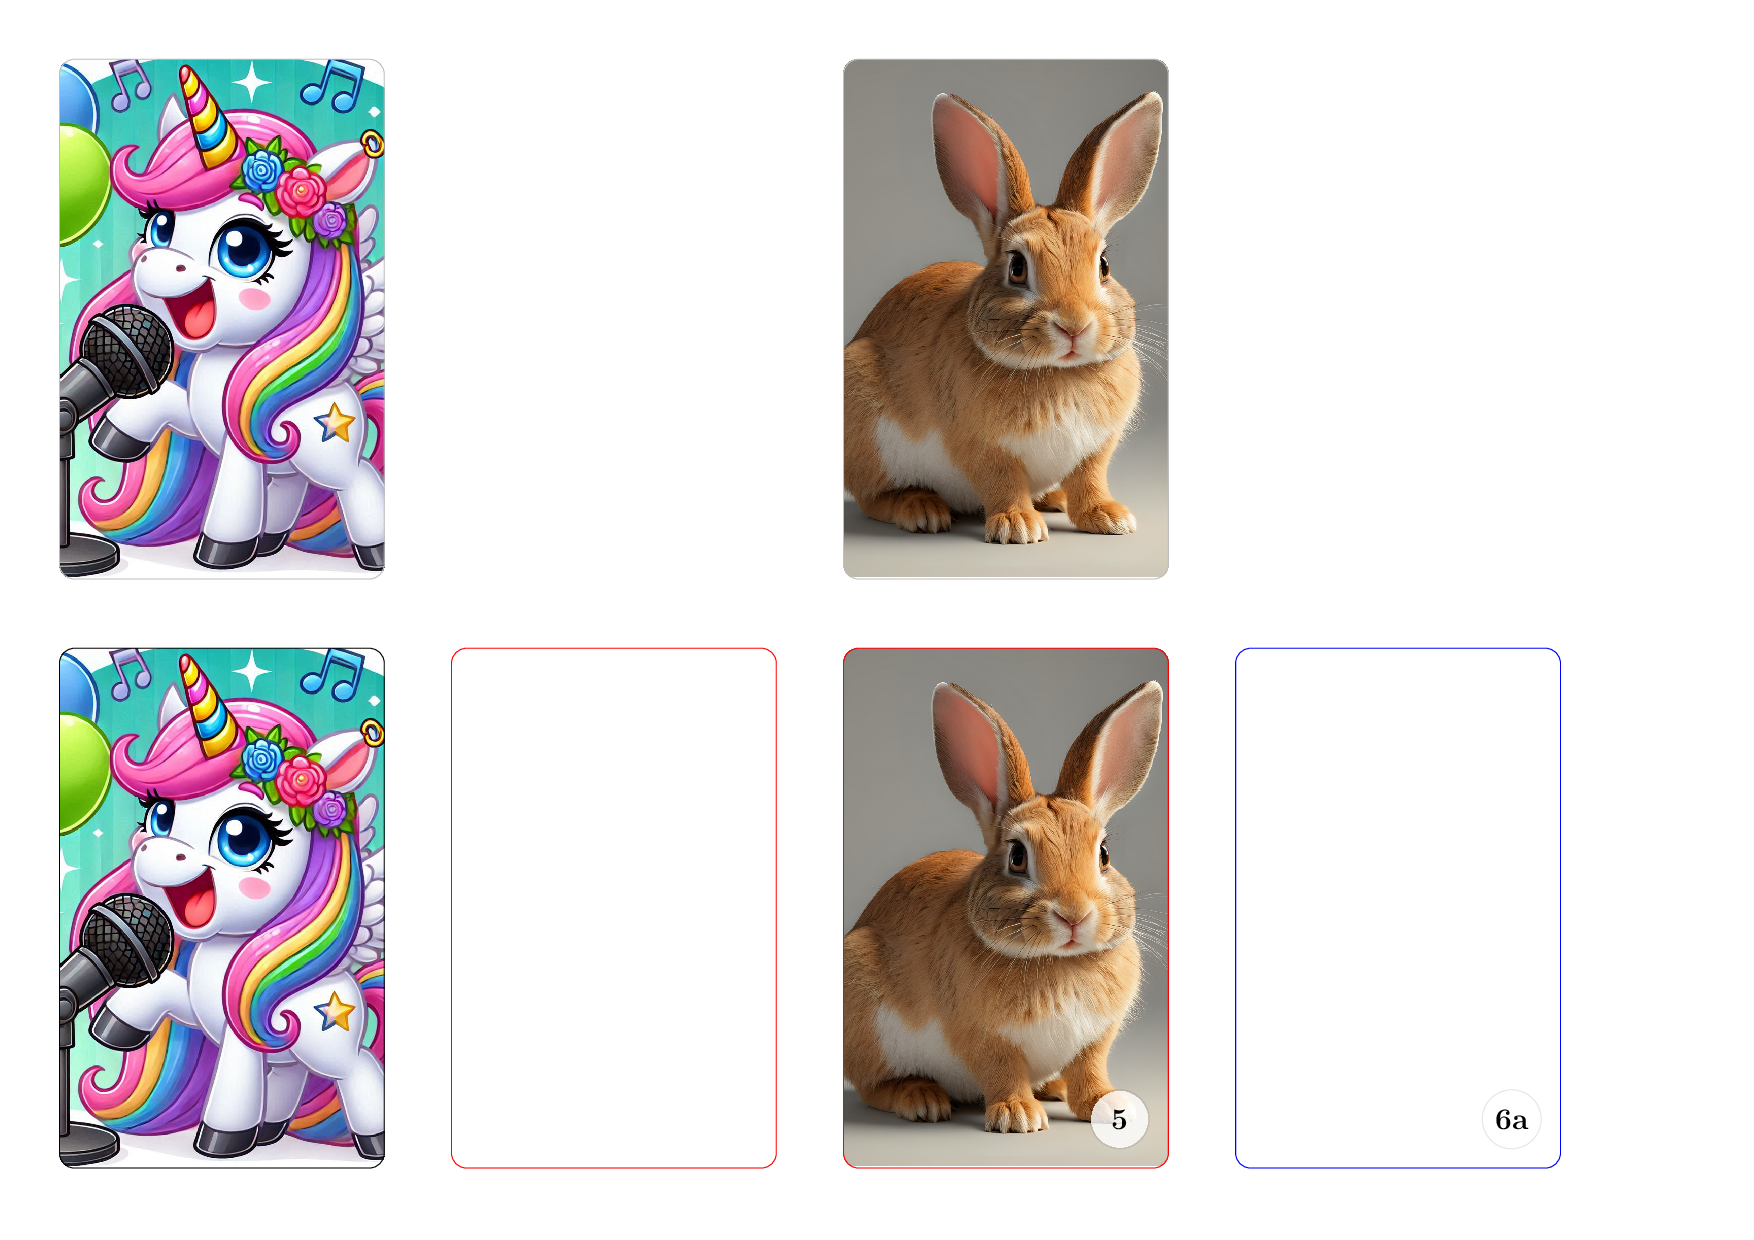
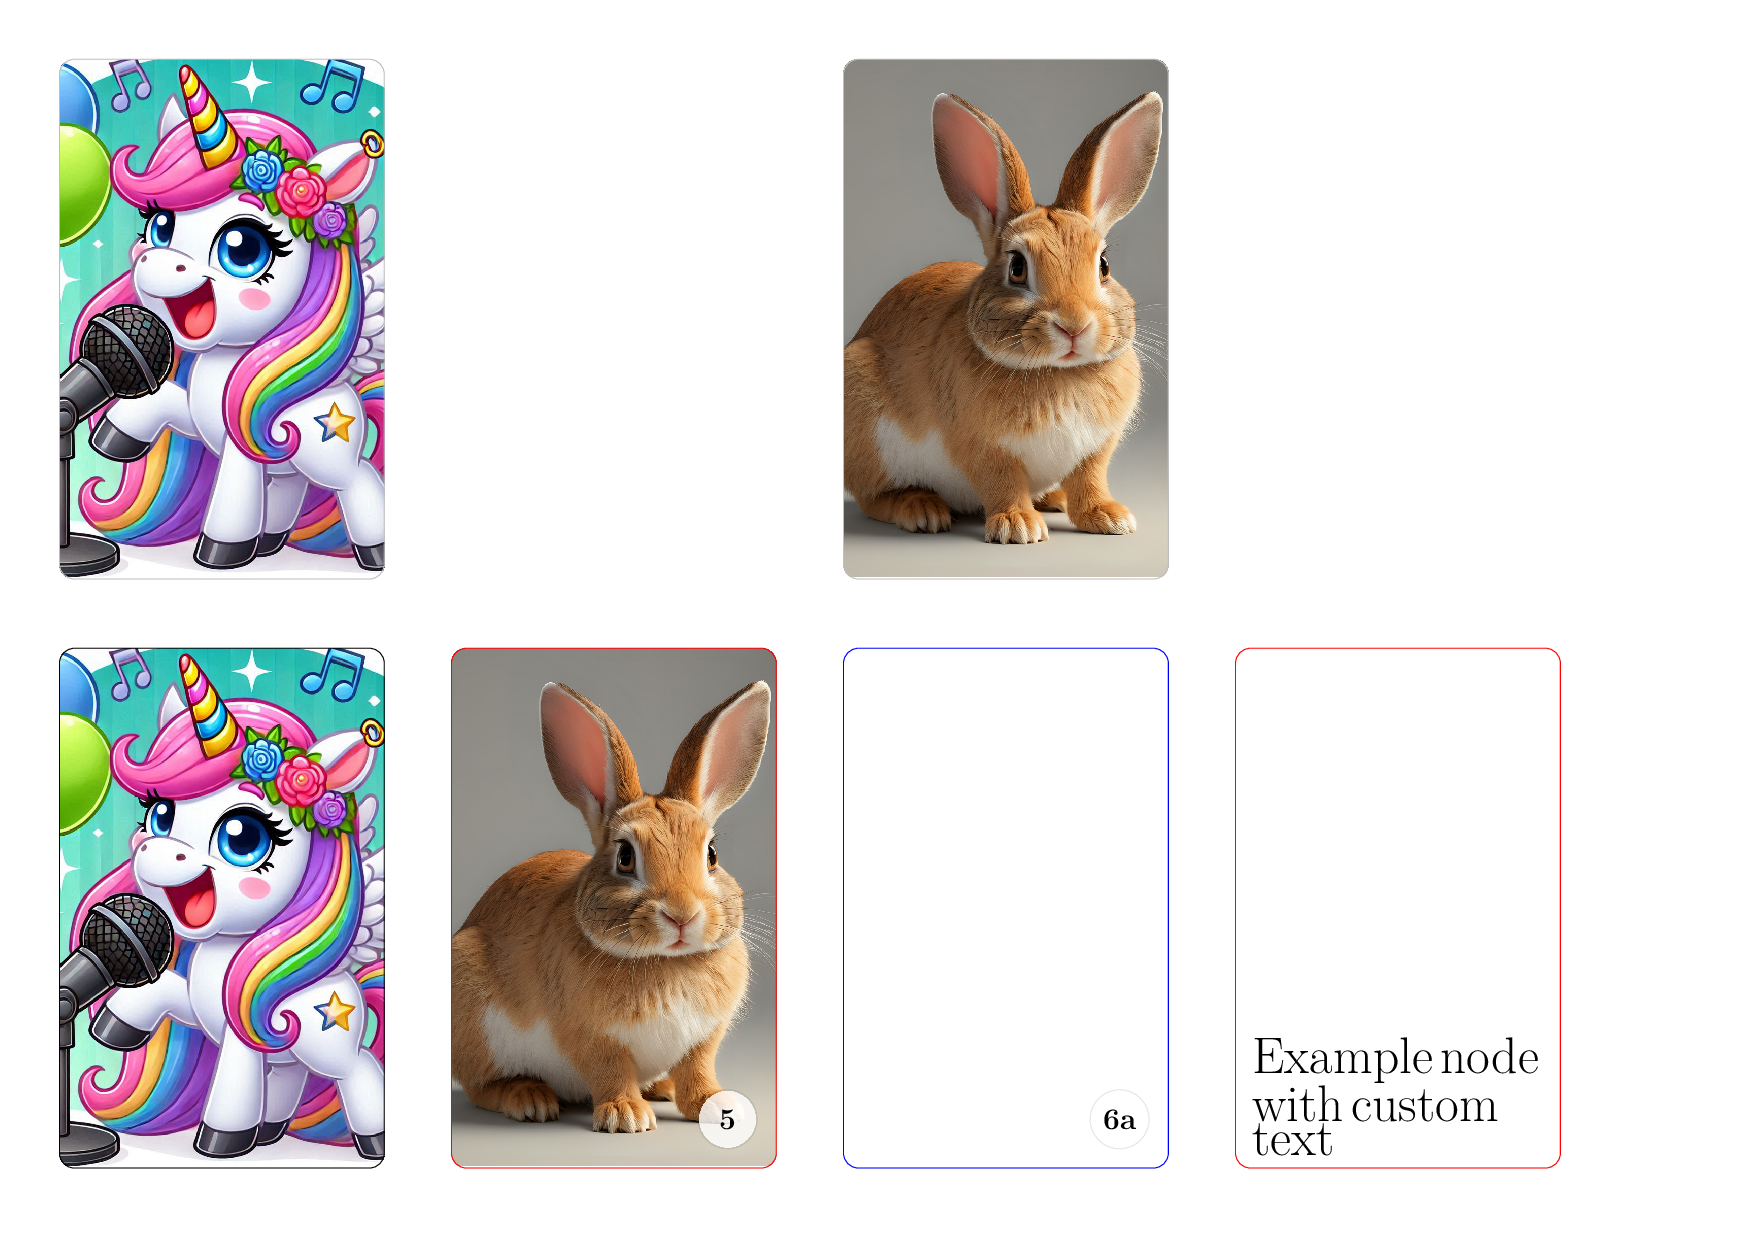
Add image overlay and custom node support

Changed region(s): [[0.2463, 0.521, 0.6773, 0.95], [0.7081, 0.8274, 0.862, 0.95]]

diff --git a/example.tex b/example.tex
@@ -9,7 +9,13 @@
     \yotocard{examples/rabbit.jpg}
     \emptycardspace \\
     \yotocard[black]{examples/unicornwithmic.jpg}
-    \yotocard[red]{}
     \yotocardwithnumber[red]{examples/rabbit.jpg}{5}
     \yotocardwithnumber[blue]{}{6a}
+    \yotocardwithcustomnode[red]{}{\node[
+        anchor=south,
+        text width=0.9*\cardwidth cm,
+        inner sep=2mm
+        ] at (0.5*\cardwidth,0)
+          {\Huge Example node with custom text};
+    }
 \end{document}

diff --git a/README.md b/README.md
@@ -8,6 +8,7 @@ You need to have [LaTeX installed](https://www.latex-project.org/get/). If you d
 In a latex document, include the package `yotocard` and then make cards using the command `\yotocard{path-to-card}`.
 You can create numbered cards using `yotocardwithnumber{path-to-card}{number}`.
 You can create blank spaces that are the size of a card using `\emptycardspace`.
+If you want to do something spicy, like add custom text, use `\yotocardwithcustomnode{path-to-card}{custom-node}`.
 
 ```latex
 % example.tex
@@ -22,9 +23,15 @@ You can create blank spaces that are the size of a card using `\emptycardspace`.
     \yotocard{examples/rabbit.jpg}
     \emptycardspace \\
     \yotocard[black]{examples/unicornwithmic.jpg}
-    \yotocard[red]{}
     \yotocardwithnumber[red]{examples/rabbit.jpg}{5}
     \yotocardwithnumber[blue]{}{6a}
+    \yotocardwithcustomnode[red]{}{\node[
+        anchor=south,
+        text width=0.9*\cardwidth cm,
+        inner sep=2mm
+        ] at (0.5*\cardwidth,0)
+          {\Huge Example node with custom text};
+    }
 \end{document}
 ```
 
@@ -46,7 +53,6 @@ This is what I do, but you should do what you feel :-)
 
 
 ## Future work and bugs
-- Add title/ subtitle/ image overlay support
 - Add support for fixing to card width instead of height
 
 Questions, suggestions and bug reports can be logged at https://github.com/ajasmith/yotocards where you can also find the latest version.
